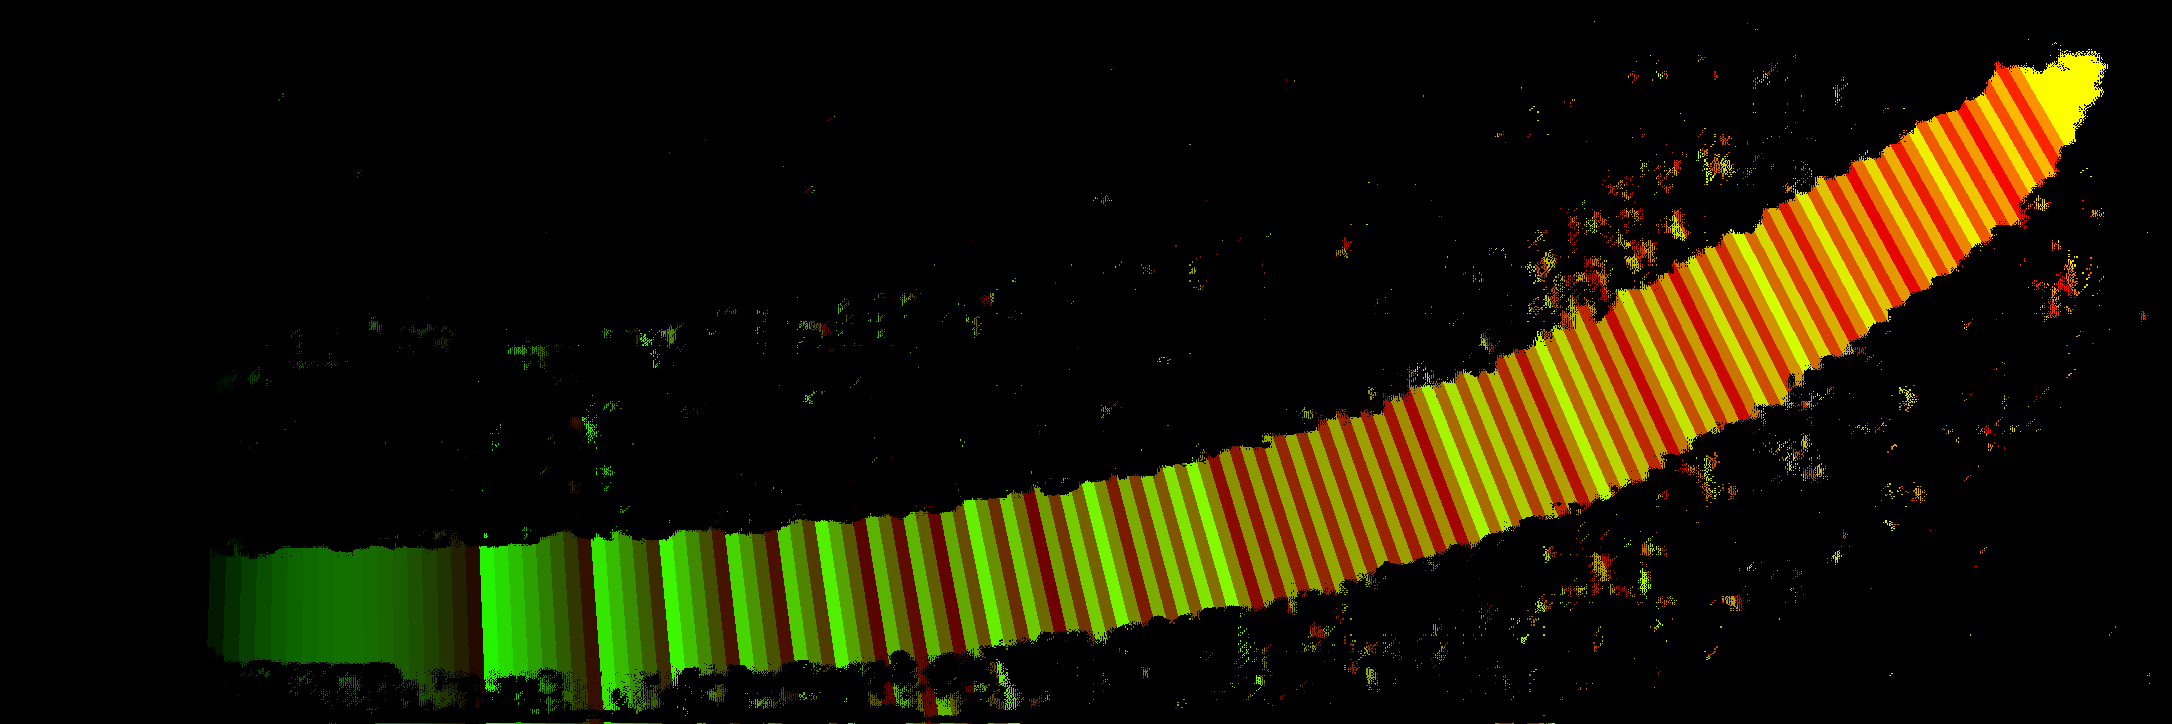
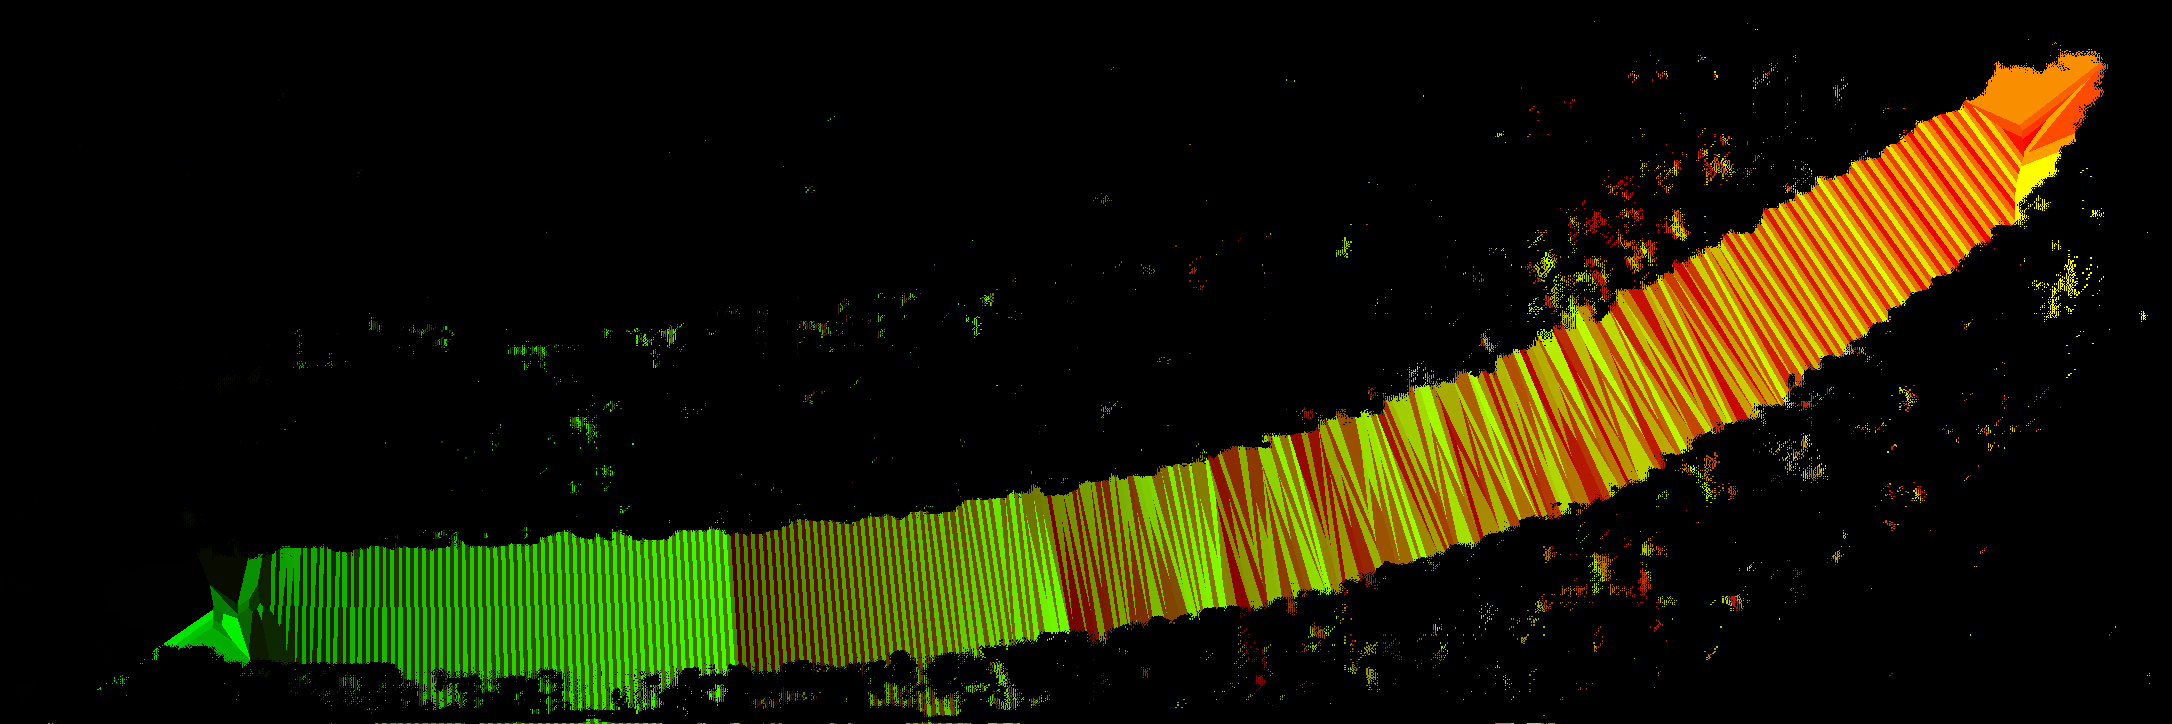
Restore bold hero units and align pen to the supplied glow ridge

diff --git a/hero-character.js b/hero-character.js
@@ -1,7 +1,7 @@
 'use strict';
 window.createHeroDrawing = async function(hero,reduced){
  const root='./assets/images/hero/auto-drawing/';
- const response=await fetch(root+'character-layout.json');if(!response.ok)throw Error('Drawing layout unavailable');const data=await response.json();
+ const response=await fetch(root+'character-layout.json?v=unit-ridge-alignment-1');if(!response.ok)throw Error('Drawing layout unavailable');const data=await response.json();
  const load=async file=>{const image=new Image();image.src=root+file;await image.decode();return image;};
  const stage=document.createElement('div');stage.className='hero-drawing';stage.hidden=true;stage.setAttribute('aria-hidden','true');
  const surface=document.createElement('canvas');surface.className='drawing-surface';stage.append(surface);hero.append(stage);const ctx=surface.getContext('2d');
@@ -10,7 +10,7 @@ window.createHeroDrawing = async function(hero,reduced){
  const hand=handImage;
  const captions=data.captions.map((c,i)=>({...c,image:captionImages[i]}));
  async function inkLayer(spec){
-  const [image,map]=await Promise.all([load(spec.file),load(spec.map)]),canvas=document.createElement('canvas');canvas.width=image.width;canvas.height=image.height;
+  const [image,map]=await Promise.all([load(spec.file),load(spec.map+'?v=unit-ridge-alignment-1')]),canvas=document.createElement('canvas');canvas.width=image.width;canvas.height=image.height;
   const context=canvas.getContext('2d',{willReadFrequently:true});context.drawImage(image,0,0);const original=context.getImageData(0,0,canvas.width,canvas.height),ink=context.createImageData(canvas.width,canvas.height);ink.data.set(original.data);
   context.clearRect(0,0,canvas.width,canvas.height);context.drawImage(map,0,0);const mb=context.getImageData(0,0,canvas.width,canvas.height).data,ranks=new Uint16Array(canvas.width*canvas.height),counts=new Uint32Array(65536);let total=0;
   for(let i=0;i<ranks.length;i++){ranks[i]=mb[i*4]*256+mb[i*4+1];ink.data[i*4+3]=0;if(original.data[i*4+3]&&ranks[i]){counts[ranks[i]]++;total++;}}
@@ -40,7 +40,10 @@ window.createHeroDrawing = async function(hero,reduced){
  caption(captions[2]);connector([[798,414],[739,414]],'right');
  caption(captions[1]);connector([[495,622],[467,535]],'bottom');
  const glowPath=glow.paths[0].map(p=>transform(glow,p));move(glowPath[0],.25,'glow',true);const glowStep={kind:'glow',start:time,end:time+1,path:path(glowPath),phase:'glow'};segments.push(glowStep);time=glowStep.end;last=glowPath.at(-1);
- move([580,510],.22,'settle');const finalPen=last.slice(),duration=time;
+ // Draw in the original direction, then settle back ALONG the same measured ridge.
+ const restPath=glowPath.slice(glow.restIndex).reverse();
+ segments.push({kind:'move',start:time,end:time+.22,path:path(restPath),phase:'settle'});time+=.22;last=restPath.at(-1);
+ const finalPen=last.slice(),duration=time;
  stage.dataset.duration=String(duration);stage.dataset.writingMode='one-motion-per-character';stage.dataset.characters=String(letters.length);
  stage.dataset.schedule=JSON.stringify(segments.filter(s=>s.kind!=='move').map(s=>({kind:s.kind,phase:s.phase,char:s.char,start:+s.start.toFixed(3),end:+s.end.toFixed(3)})));
  let raf=0,started=0,active=false,pausedAt=0,virtualHeight=901,ratio=1;const progress=(step,t)=>Math.max(0,Math.min(1,(t-step.start)/(step.end-step.start)));
@@ -56,7 +59,7 @@ window.createHeroDrawing = async function(hero,reduced){
   connectors.forEach(step=>drawConnector(step,t));let curveProgress=0;for(const step of lineSteps)if(t>=step.start)curveProgress=(step.i+progress(step,t))/lineSteps.length;
   updateInk(curves,curveProgress);drawLayer(curves);updateInk(glow,progress(glowStep,t));drawLayer(glow);
   const segment=segments.find(s=>t>=s.start&&t<s.end);stage.dataset.phase=t<.35?'base':t>=duration?'complete':segment?.phase||'travel';
-  if(segment||t>=duration){let pen=finalPen;if(segment){let f=progress(segment,t);if(segment.kind==='move')f=smooth(f);pen=point(segment.path,f);}ctx.save();ctx.translate(...pen);ctx.rotate(-37*Math.PI/180);const scale=500/1122;ctx.globalAlpha=Math.max(0,Math.min(1,(t-.35)/.30));ctx.drawImage(hand,-286*scale,-104*scale,500,1402*scale);ctx.restore();stage.dataset.penX=pen[0].toFixed(3);stage.dataset.penY=pen[1].toFixed(3);stage.dataset.penDown=String(!!segment&&segment.kind!=='move');stage.dataset.handVisible=String(t>.35);stage.dataset.character=segment?.char||'';
+  if(segment||t>=duration){let pen=finalPen;if(segment){let f=progress(segment,t);if(segment.kind==='move')f=smooth(f);pen=point(segment.path,f);}ctx.save();ctx.translate(...pen);ctx.rotate(-37*Math.PI/180);const scale=500/1122;ctx.globalAlpha=Math.max(0,Math.min(1,(t-.35)/.30));ctx.drawImage(hand,-data.handTip[0]*scale,-data.handTip[1]*scale,500,1402*scale);ctx.restore();stage.dataset.penX=pen[0].toFixed(3);stage.dataset.penY=pen[1].toFixed(3);stage.dataset.penDown=String(!!segment&&segment.kind!=='move');stage.dataset.handVisible=String(t>.35);stage.dataset.character=segment?.char||'';
   }else{stage.dataset.penDown='false';stage.dataset.handVisible='false';stage.dataset.character='';}
   if(t>=duration&&!stage.dataset.actualComplete)stage.dataset.actualComplete=t.toFixed(3);
   stage.dataset.elapsed=Math.min(t,duration).toFixed(3);stage.dataset.revealed=String(letters.filter(s=>t>=s.end).length);stage.dataset.progress=Math.min(1,t/duration).toFixed(4);

diff --git a/index.html b/index.html
@@ -9,7 +9,7 @@
 <link rel="stylesheet" href="location-footer.css?v=hero-top-align-1">
 <link rel="preload" as="image" href="assets/images/hero/auto-drawing/base.png">
 <link rel="stylesheet" href="section05-visibility.css">
-<link rel="stylesheet" href="hero-drawing.css?v=drawing-six-fixes-1">
+<link rel="stylesheet" href="hero-drawing.css?v=unit-ridge-alignment-1">
 </head>
 <!-- Temporary SECTION 05 switch: remove the following body class and reload to restore. -->
 <body id="top" class="section05-temporarily-hidden"><a class="skip-link" href="#philosophy">콘텐츠 바로가기</a>
@@ -124,5 +124,5 @@
 <dialog id="video-dialog" class="p8-dialog" aria-labelledby="video-dialog-title"><div class="dialog-head"><h2 id="video-dialog-title">슬림영 공식 영상</h2><button type="button" data-close="video-dialog" aria-label="영상 닫기">닫기 ×</button></div><div id="player"></div><p id="video-title"></p><a id="youtube" target="_blank" rel="noopener noreferrer">YouTube에서 보기 ↗</a><p class="content-note">외부 영상 재생은 네트워크 및 YouTube 정책에 따라 제한될 수 있습니다.</p></dialog>
 <dialog id="image-dialog" class="p8-dialog" aria-labelledby="image-title"><div class="dialog-head"><h2 id="image-title">이미지 상세 보기</h2><button type="button" data-close="image-dialog" aria-label="이미지 닫기">닫기 ×</button></div><img id="expanded-image" alt=""><p id="image-caption"></p></dialog>
 <dialog id="consult-dialog" class="p8-dialog consult-dialog" aria-labelledby="consult-title"><div class="dialog-head"><h2 id="consult-title">상담·예약 안내</h2><button type="button" data-close="consult-dialog" aria-label="상담 안내 닫기">닫기 ×</button></div><p>현재는 디자인 검토 단계입니다.<br>예약·상담 신청을 전송하지 않습니다.</p><p>전화 문의 <a href="tel:023182350">02-318-2350</a></p><a class="text-link" href="#visit" id="consult-location">오시는 길 보기 ↗</a><p class="content-note">하단 입력란은 화면 시안이며 입력값을 전송하거나 저장하지 않습니다.</p></dialog>
-<script src="content.js"></script><script src="app.js"></script><script src="hero-models.js?v=hero-top-align-1"></script><script src="hero-character.js?v=character-writing-1"></script><script src="hero-02.js?v=drawing-six-fixes-1"></script><script src="pc-youtube.js"></script><script src="pc-content-recovery.js"></script><script src="pc-review-gallery-data.js?v=signature-reference"></script><script src="pc-review-gallery.js?v=signature-reference"></script><script src="section05-visibility.js"></script><script src="section04-b.js"></script><script src="section05.js"></script></body></html>
+<script src="content.js"></script><script src="app.js"></script><script src="hero-models.js?v=hero-top-align-1"></script><script src="hero-character.js?v=unit-ridge-alignment-1"></script><script src="hero-02.js?v=drawing-six-fixes-1"></script><script src="pc-youtube.js"></script><script src="pc-content-recovery.js"></script><script src="pc-review-gallery-data.js?v=signature-reference"></script><script src="pc-review-gallery.js?v=signature-reference"></script><script src="section05-visibility.js"></script><script src="section04-b.js"></script><script src="section05.js"></script></body></html>
 

diff --git a/hero-drawing.css b/hero-drawing.css
@@ -6,5 +6,7 @@
 
 /* SECTION01 initial photo matches the unfiltered decoded artwork. */
 .hero:not(.has-models) .hero-photo{filter:none}
-/* Restore the approved phase9 unit correction; global small text is otherwise dark. */
-.hero-live-number small{color:inherit;opacity:1;align-self:baseline;margin-left:2px}
+/* Explicit Korean Bold fixes thin fallback glyphs, not just their computed color. */
+.hero .hero-live-stats .hero-live-number{color:#DEA1F2;opacity:1;column-gap:2px}
+.hero .hero-live-stats .hero-live-number>[data-count]{color:#DEA1F2;opacity:1}
+.hero .hero-live-stats .hero-live-number>small{color:#DEA1F2;-webkit-text-fill-color:#DEA1F2;font:700 24px/1 'Noto Serif KR',serif;opacity:1;align-self:baseline;margin:0;letter-spacing:0;flex:none}
